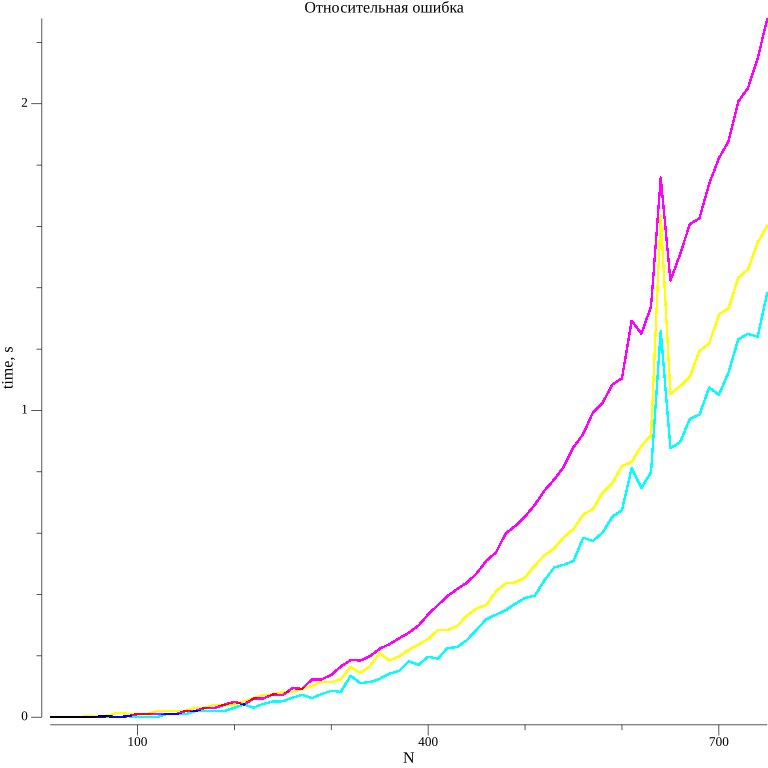
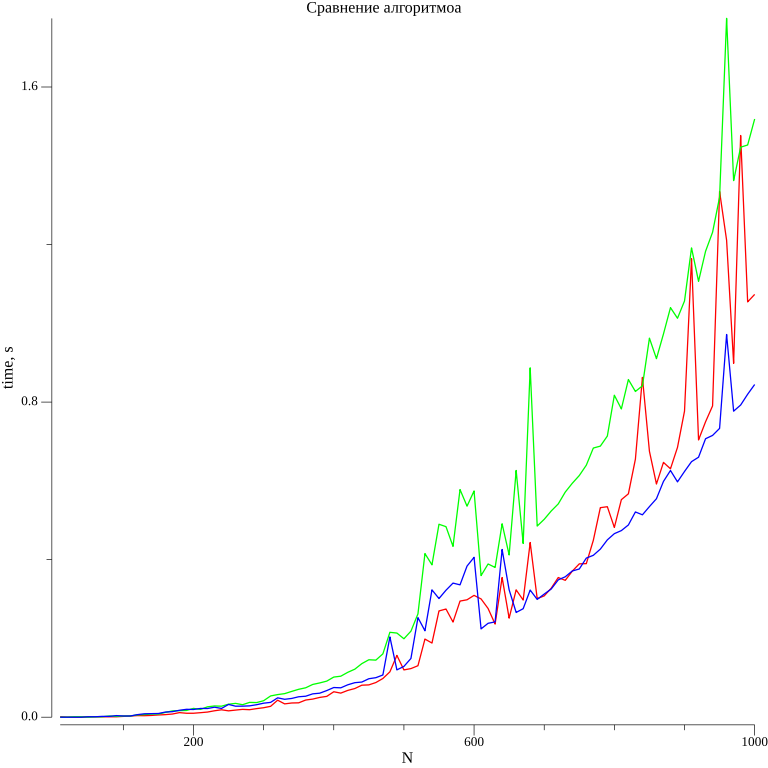
fixed bugs

diff --git a/add2/main.go b/add2/main.go
@@ -15,7 +15,7 @@ import (
 func main() {
 	results := make([]ExperimentResult, 0)
 
-	tqdm.With(Interval(1, 76), "simulation", func(v interface{}) (brk bool) {
+	tqdm.With(Interval(1, 101), "simulation", func(v interface{}) (brk bool) {
 		n := 10 * v.(int)
 
 		results = append(results, Experiment(n))
@@ -23,7 +23,7 @@ func main() {
 	})
 
 	p := plot.New()
-	p.Title.Text = "Относительная ошибка"
+	p.Title.Text = "Сравнение алгоритмоа"
 	p.X.Label.Text = "N"
 	p.Y.Label.Text = "time, s"
 
@@ -42,19 +42,19 @@ func main() {
 	}
 
 	GramSchmidtLine, err := plotter.NewLine(GramSchmidtPoints)
-	GramSchmidtLine.Color = color.RGBA{1, 0, 0, 0}
+	GramSchmidtLine.Color = color.RGBA{255, 0, 0, 255}
 	if err != nil {
 		log.Fatal(err)
 	}
 
 	ModifiedGramSchmidtLine, err := plotter.NewLine(ModifiedGramSchmidtPoints)
-	ModifiedGramSchmidtLine.Color = color.RGBA{0, 1, 0, 0}
+	ModifiedGramSchmidtLine.Color = color.RGBA{0, 255, 0, 255}
 	if err != nil {
 		log.Fatal(err)
 	}
 
 	HouseholderLine, err := plotter.NewLine(HouseholderPoints)
-	HouseholderLine.Color = color.RGBA{0, 0, 1, 0}
+	HouseholderLine.Color = color.RGBA{0, 0, 255, 255}
 	if err != nil {
 		log.Fatal(err)
 	}
